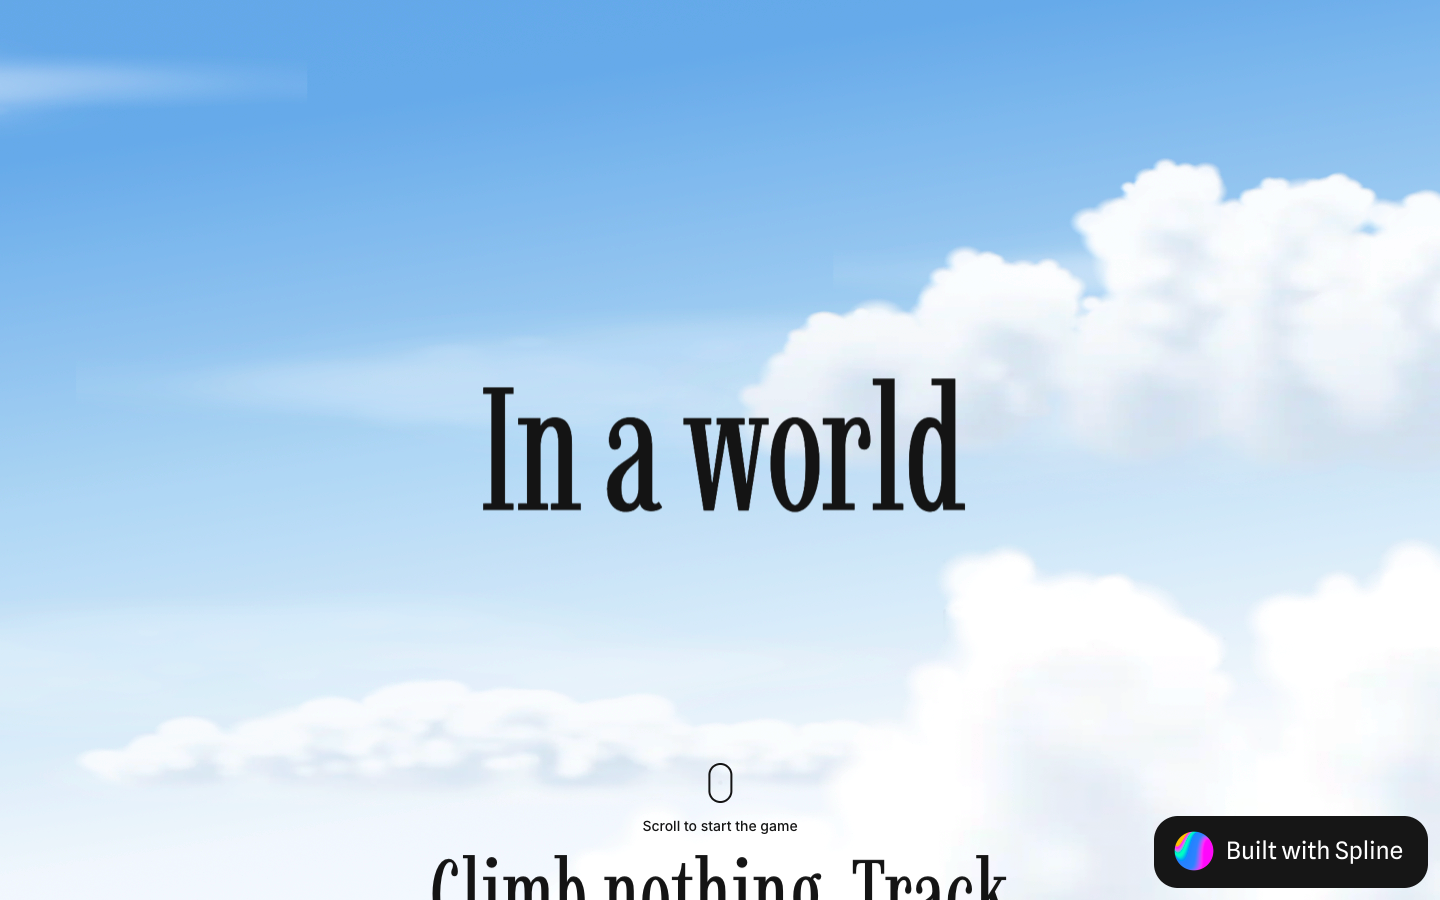
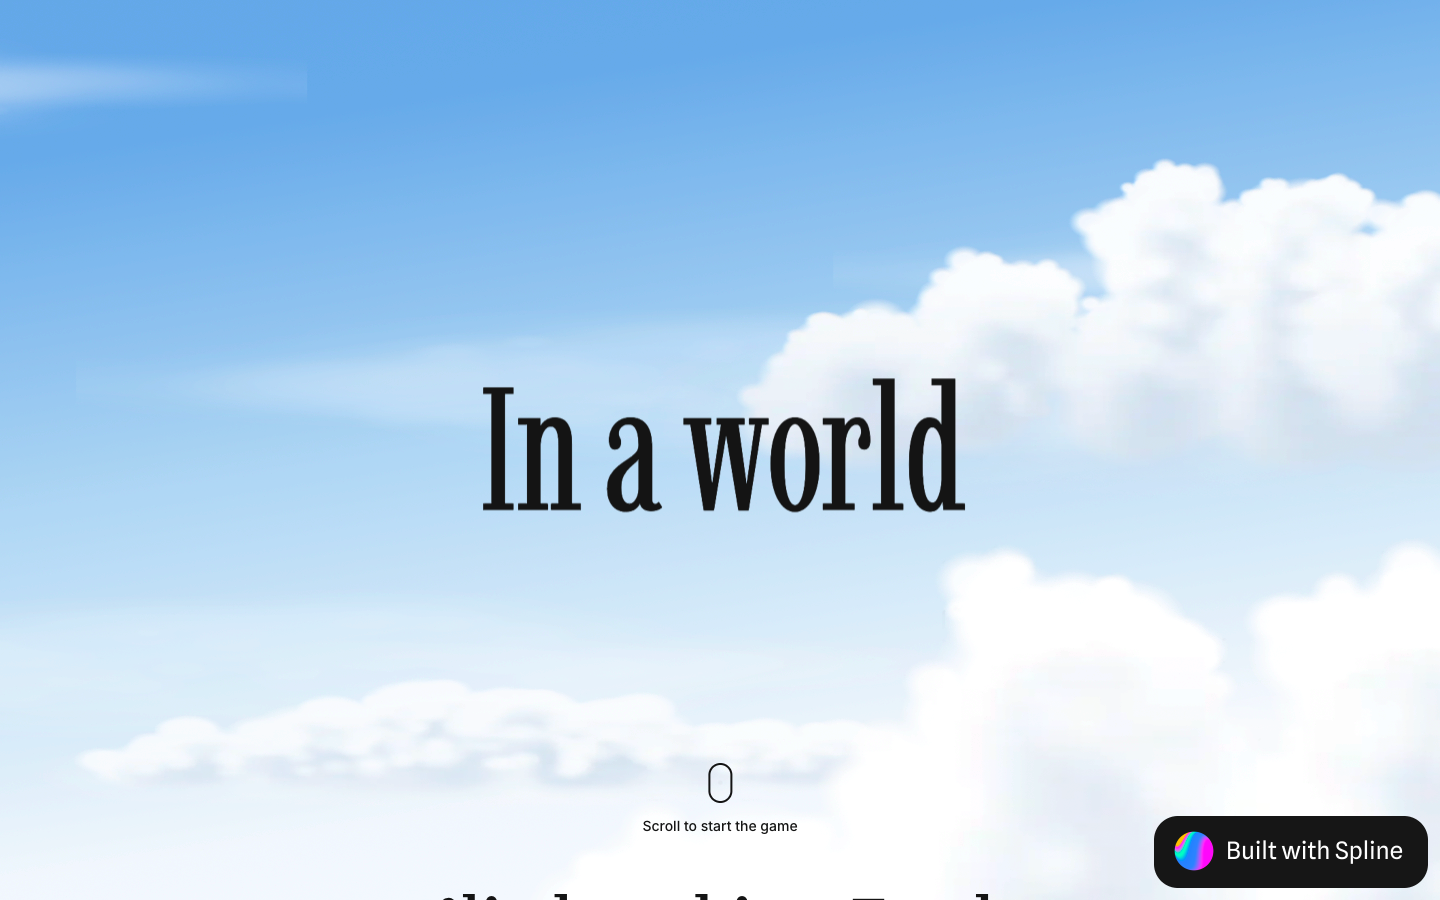
Animation review: shorter entrances and exits, shared scroll trailing, time-based cursor tracking, button feedback

Changed region(s): [[0.2812, 0.9333, 0.7188, 1.0]]

diff --git a/src/scroll.js b/src/scroll.js
@@ -36,13 +36,19 @@ let nudge = 0; // small extra progress used by the idle "dip" in intro.js
 
 // Cursor tracking: the camera leans a little toward the pointer, in the intro and at the hero.
 // Same amounts the Spline file used before the site took over the camera.
-const TRACK = { slide: 120, lift: 30, tilt: 0.021, turn: 0.044, ease: 0.05 };
+// catchUp: seconds the camera needs to close most of the gap to the pointer.
+const TRACK = { slide: 120, lift: 30, tilt: 0.021, turn: 0.044, catchUp: 0.33 };
 const pointer = { x: 0, y: 0, targetX: 0, targetY: 0 }; // -1..1 from the screen center
 let tracking = false;
+let lastTrack = 0;
 
-function trackPointer() {
-  pointer.x += (pointer.targetX - pointer.x) * TRACK.ease;
-  pointer.y += (pointer.targetY - pointer.y) * TRACK.ease;
+function trackPointer(now) {
+  // Based on elapsed time, so it feels the same on 60 Hz and 120 Hz screens.
+  const dt = Math.min(0.05, (now - lastTrack) / 1000);
+  lastTrack = now;
+  const step = 1 - Math.exp(-dt / TRACK.catchUp);
+  pointer.x += (pointer.targetX - pointer.x) * step;
+  pointer.y += (pointer.targetY - pointer.y) * step;
   applyCamera();
   const settled = Math.abs(pointer.targetX - pointer.x) < 0.001 && Math.abs(pointer.targetY - pointer.y) < 0.001;
   // Stop the loop when the camera has caught up.
@@ -54,7 +60,7 @@ function onPointerMove(event) {
   if (event.pointerType === 'touch') return;
   pointer.targetX = (event.clientX / window.innerWidth) * 2 - 1;
   pointer.targetY = (event.clientY / window.innerHeight) * 2 - 1;
-  if (!tracking) { tracking = true; requestAnimationFrame(trackPointer); }
+  if (!tracking) { tracking = true; lastTrack = performance.now(); requestAnimationFrame(trackPointer); }
 }
 
 function applyCamera() {
@@ -87,15 +93,18 @@ export function setCameraNudge(value) {
 // Each part owns one equal stretch of the pinned scroll: it rises in over the first 28%,
 // rests, then drifts up and fades slowly over the last 42%. The next part only starts
 // once the old one is gone, so a part cannot be skipped without being seen leaving.
-const PART = { in: 0.28, outStart: 0.58, out: 0.42, shift: 22, scale: 0.98, smoothing: 0.8 };
+const PART = { in: 0.28, outStart: 0.58, out: 0.42, shift: 22, scale: 0.98 };
+
+// Text and camera trail the scrollbar by the same half second, so they move as one.
+const SMOOTHING = 0.5;
 
 function buildIntroText() {
   const parts = gsap.utils.toArray('.intro__part');
   if (!parts.length) return;
   const timeline = gsap.timeline({
     defaults: { overwrite: false },
-    // smoothing: the text takes 0.8 s to catch up with the scrollbar, so a fast flick still plays each change
-    scrollTrigger: { trigger: '#intro', start: 'top top', end: 'bottom bottom', scrub: PART.smoothing },
+    // the trailing means a fast flick still plays each change
+    scrollTrigger: { trigger: '#intro', start: 'top top', end: 'bottom bottom', scrub: SMOOTHING },
   });
   parts.forEach((part, i) => {
     const last = i === parts.length - 1;
@@ -131,8 +140,7 @@ export function initScroll() {
         if (segment.onProgress) segment.onProgress(self.progress);
         applyCamera();
       };
-      // scrub 0.5: the camera trails the scrollbar by half a second, which gives it some weight
-      ScrollTrigger.create({ trigger: segment.trigger, start: segment.start, end: segment.end, scrub: 0.5, onUpdate: update, onRefresh: update });
+      ScrollTrigger.create({ trigger: segment.trigger, start: segment.start, end: segment.end, scrub: SMOOTHING, onUpdate: update, onRefresh: update });
     });
   }
 }

diff --git a/src/styles/tokens.css b/src/styles/tokens.css
@@ -55,16 +55,19 @@
   --shadow-float: 0 16px 48px rgba(20, 20, 20, 0.16);
 
   /* Durations and easing */
+  --duration-micro: 100ms;                 /* button hover and press */
   --duration-fast: 150ms;
   --duration-base: 300ms;
   --duration-slow: 600ms;
-  --duration-part-in: 700ms;               /* intro text easing in on load */
-  --delay-part-in: 200ms;
-  --duration-intro-hint-fade: 600ms;
-  --duration-intro-hint-delay: 1700ms;     /* text arrival (0.2 + 0.7 s) + 0.8 s */
+  --duration-part-in: 500ms;               /* intro text easing in on load */
+  --delay-part-in: 100ms;
+  --duration-crossfade: 400ms;             /* static image to live scene */
+  --duration-intro-hint-fade: 250ms;
+  --duration-intro-hint-delay: 1400ms;     /* text arrival (0.1 + 0.5 s) + 0.8 s */
   --duration-hint-loop: 1600ms;            /* wheel dot / swipe loop */
   --ease-standard: cubic-bezier(0.2, 0, 0, 1);
   --ease-enter: cubic-bezier(0.22, 1, 0.36, 1);    /* fast start, soft landing */
+  --ease-exit: cubic-bezier(0.4, 0, 1, 1);          /* soft start, quick leave */
 
   /* Layers */
   --z-scene: 0;
@@ -78,6 +81,8 @@
   --size-hint-dot: 4px;
   --size-hint-travel: 10px;
   --size-stroke: 2px;
+  --shift-button-hover: -1px;              /* button lifts a hair on hover */
+  --scale-button-press: 0.98;
   --size-touch-target: 44px;
   --size-visually-hidden: 1px;             /* skip link: present for screen readers, invisible until focused */
   --measure-title: 16ch;

diff --git a/src/styles/base.css b/src/styles/base.css
@@ -65,12 +65,18 @@ main { position: relative; z-index: var(--z-content); }
   font-weight: var(--weight-strong);
   text-decoration: none;
   box-shadow: var(--shadow-card);
+  transition: transform var(--duration-micro) var(--ease-enter), box-shadow var(--duration-micro) var(--ease-enter);
 }
+/* Feedback: a small lift on hover, a small press on click */
+@media (hover: hover) {
+  .button:hover { transform: translateY(var(--shift-button-hover)); box-shadow: var(--shadow-float); }
+}
+.button:active { transform: scale(var(--scale-button-press)); box-shadow: var(--shadow-card); }
 
 /* 3D scene layer: fixed behind everything. The image shows first, the canvas fades in over it. */
 .scene { position: fixed; inset: 0; z-index: var(--z-scene); overflow: hidden; pointer-events: none; }
 .scene__fallback, .scene__canvas { position: absolute; inset: 0; width: 100%; height: 100%; }
 .scene__fallback { height: var(--size-scene-fallback); object-fit: cover; object-position: center top; will-change: transform; }
-.scene__canvas { opacity: 0; transition: opacity var(--duration-slow) var(--ease-standard); }
+.scene__canvas { opacity: 0; transition: opacity var(--duration-crossfade) var(--ease-standard); }
 .scene.is-loaded .scene__canvas { opacity: 1; }
 .scene iframe { pointer-events: none; }

diff --git a/src/intro.js b/src/intro.js
@@ -53,14 +53,14 @@ export function initIntro() {
     const title = heroContent.querySelector('h1');
     const gap = (title || heroContent).getBoundingClientRect().top - window.innerHeight;
     dip = gsap.timeline({ onUpdate: applyDip })
-      .to(state, { nudge: DIP_AMOUNT, lift: Math.max(0, gap + PEEK_PX), duration: 0.9, ease: 'power2.inOut' })
-      .to(state, { nudge: 0, lift: 0, duration: 0.9, ease: 'power2.inOut' }, '+=0.7');
+      .to(state, { nudge: DIP_AMOUNT, lift: Math.max(0, gap + PEEK_PX), duration: 0.6, ease: 'power2.inOut' })
+      .to(state, { nudge: 0, lift: 0, duration: 0.6, ease: 'power2.inOut' }, '+=0.5');
   };
   const cancelDip = () => {
     clearTimeout(idleTimer);
     if (dip && dip.isActive()) {
       dip.kill();
-      gsap.to(state, { nudge: 0, lift: 0, duration: 0.3, onUpdate: applyDip });
+      gsap.to(state, { nudge: 0, lift: 0, duration: 0.25, ease: 'power2.out', onUpdate: applyDip });
     }
   };
   if (!reduced && !returning && window.scrollY === 0) {

diff --git a/src/styles/sections/intro.css b/src/styles/sections/intro.css
@@ -63,7 +63,8 @@
   font-size: var(--text-label);
   font-weight: var(--weight-medium);
   text-decoration: none;
-  transition: opacity var(--duration-base) var(--ease-standard), visibility var(--duration-base);
+  /* leaving: short, with a soft start */
+  transition: opacity var(--duration-fast) var(--ease-exit), visibility var(--duration-fast);
 }
 .intro__hint.is-hidden { opacity: 0; visibility: hidden; }
 .intro__hint-inner { display: flex; flex-direction: column; align-items: center; gap: var(--space-3); }

diff --git a/src/styles/sections/hero.css b/src/styles/sections/hero.css
@@ -14,6 +14,5 @@
   align-items: center;
   gap: var(--space-6);
   max-width: var(--content-max);
-  will-change: transform;
 }
 .hero__title { max-width: var(--measure-title); }

diff --git a/design/decisions.md b/design/decisions.md
@@ -47,3 +47,13 @@
 - Removed tokens no longer used: --duration-part-out, --ease-exit, --scale-intro-part. --delay-part-in is now the load delay (0.2 s).
 - Intro camera stands closer to the clouds (z 0 to z -1800).
 - Intro to hero is now a swoop, not a straight line: fast pull-back that slows, early lift of the camera's nose, and a soft drop so the hills rise in from the bottom. A first try that tipped the camera forward showed the far edge of the Ground plane, so it was dropped. The camera trails the scrollbar by 0.5 s.
+
+## 2026-11-16 · Animation review (animation-principles skill)
+- Load entrance: 0.7 s to 0.5 s, delay 0.2 s to 0.1 s. Hint fade 0.6 s to 0.25 s, still 0.8 s after the text.
+- Hint leaving: 0.3 s standard curve to 0.15 s with an exit curve (--ease-exit is back).
+- Text and camera now share one scroll trailing value, 0.5 s (text was 0.8 s), so they stay in step.
+- Idle dip: 0.9 s each way to 0.6 s, hold 0.7 s to 0.5 s.
+- Cursor tracking is time-based, so 120 Hz screens no longer run it twice as fast.
+- Scene crossfade 0.6 s to 0.4 s.
+- Button: hover lift and press feedback, 0.1 s. New tokens --duration-micro, --duration-crossfade, --shift-button-hover, --scale-button-press.
+- Kept on purpose: scroll-tied part changes (ease-out in, ease-in out), the swoop curves, the 4.4-screen pinned scroll, the hint loop.

diff --git a/design/page-spec.md b/design/page-spec.md
@@ -20,7 +20,7 @@ Motion:
 - On load: part 1 eases in. Then the page waits.
 - Trigger: scroll only (wheel, swipe, arrow keys, Space). No timer advances the page.
 - The intro stays pinned while the reader scrolls through four equal steps of 1.1 screens each. Only one part is visible at a time.
-- Part change follows the scroll, not a timer. Within its step a part rises in (first 28%), rests, then drifts up and fades slowly (last 42%). The next part starts only when the old one is gone. Scrolling up plays it backwards. The text trails the scrollbar by 0.8 s so a fast flick still shows every change.
+- Part change follows the scroll, not a timer. Within its step a part rises in (first 28%), rests, then drifts up and fades slowly (last 42%). The next part starts only when the old one is gone. Scrolling up plays it backwards. The text and the camera trail the scrollbar by 0.5 s so a fast flick still shows every change.
 - The camera descends through the clouds with scroll progress. Scrolling up reverses it.
 - Hint fades in 0.8 s after part 1, wheel dot loops, hides on first scroll.
 - After 6 s idle: the camera dips so the hero headline peeks above the bottom edge, then settles back.
